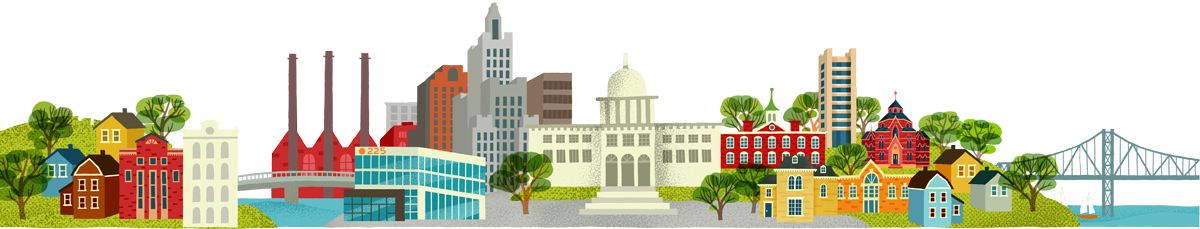
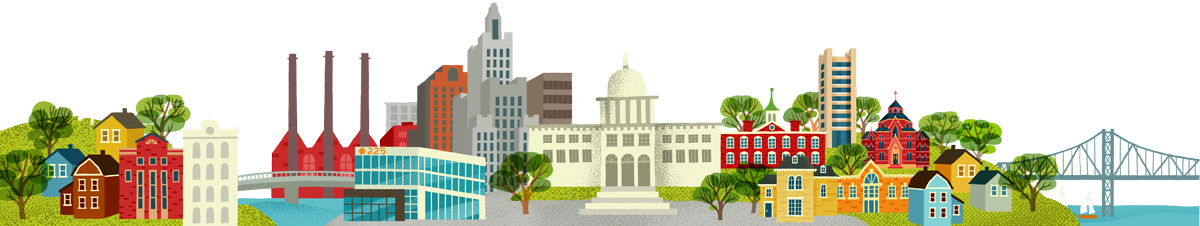
Forgot about the footer (#29)
* Forgot about the footer
* Crop bottoms to make straight edge

diff --git a/_includes/footer.html b/_includes/footer.html
@@ -1,11 +1,17 @@
       <section class="s__sky s__lil-splatter" aria-hidden="true">
-        <div class="city--header city__sky">
+        <div class="city--header">
           <div class="cloud cloud--1"></div>
           <div class="cloud cloud--2"></div>
           <div class="cloud cloud--3"></div>
           <div class="cloud cloud--4"></div>
           <div class="cloud cloud--5"></div>
-          <img class="city__cityscape" src="{{ '/' | relative_url }}assets/illus/cityscape_nosky.png" alt="">
+          <img srcset="{{ '/' | relative_url }}assets/illus/cityscape-1200.png 1200w,
+                       {{ '/' | relative_url }}assets/illus/cityscape-2400.png 2400w,
+                       {{ '/' | relative_url }}assets/illus/cityscape-2400.png 2x 1200w,
+                       {{ '/' | relative_url }}assets/illus/cityscape-3200.png 3200w,
+                       {{ '/' | relative_url }}assets/illus/cityscape-3200.png 2x 1600w"
+            sizes="(min-width: 2400px) 3200px, (min-width: 1200px) 2400px, 1200px"
+            src="{{ '/' | relative_url }}assets/illus/cityscape-1200.png" alt="" class="img--rwd">
         </div>
       </section>
       <section id="podcast" class="podcast s__primary">
